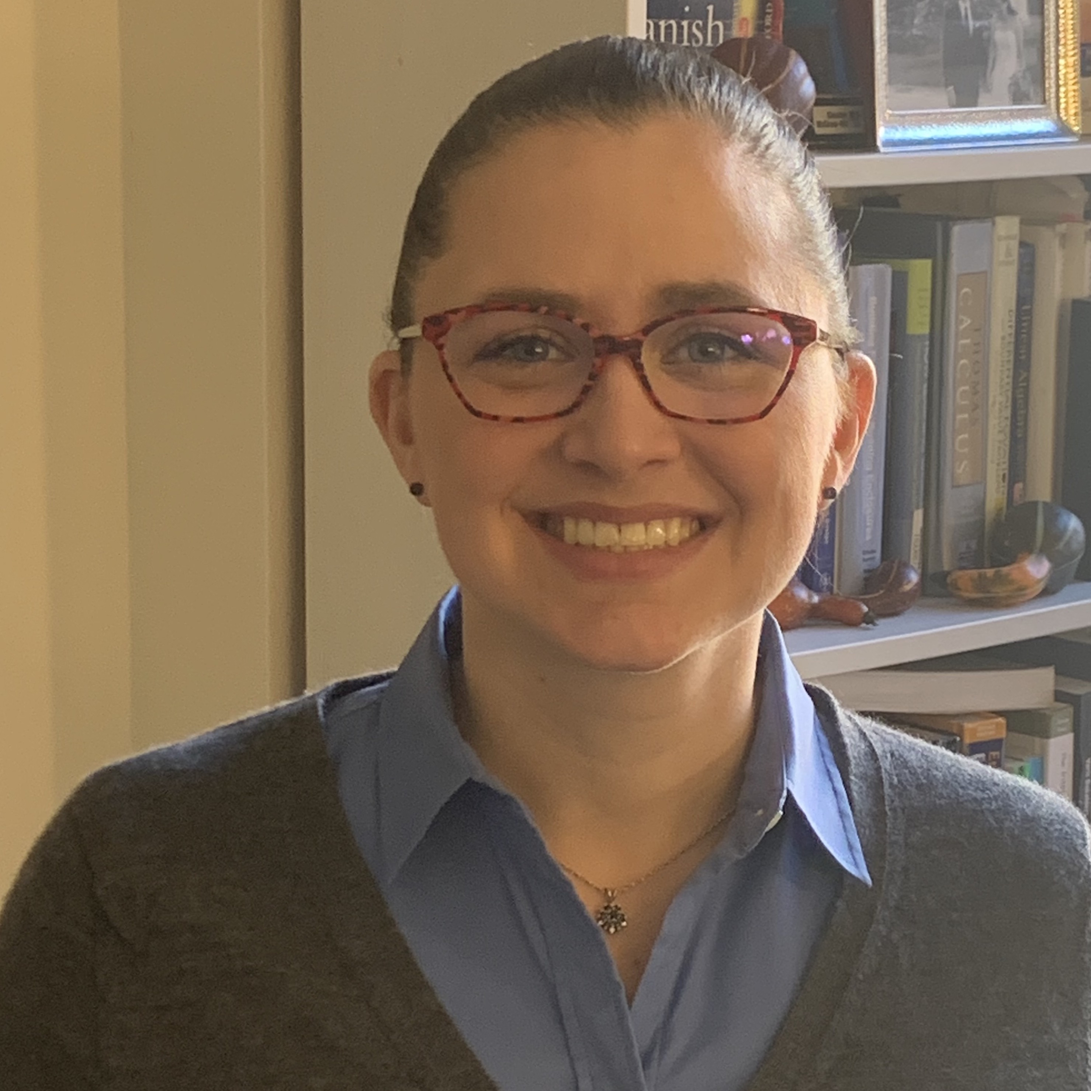
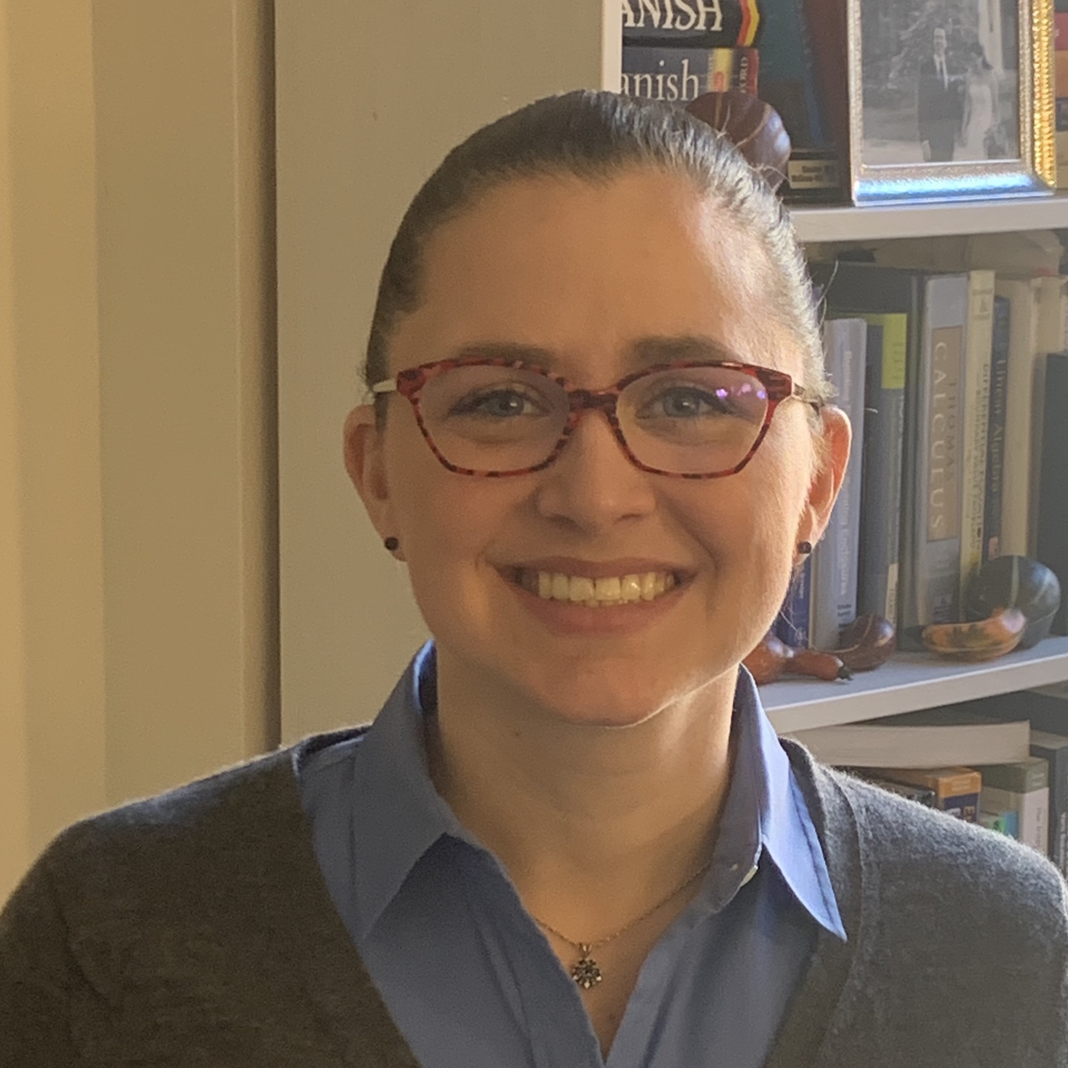
update photos

diff --git a/index.html b/index.html
@@ -103,7 +103,7 @@
         -->
           <div class="col-lg-4" data-aos="fade-right">
             <div class="overall_image">
-              <img src="assets/img/IMG-6211_profile_photo_square.jpg" class="img-fluid" alt="">
+              <img src="assets/img/IMG-6211_profile_photo.jpg" class="img-fluid" alt="">
             </div>
           </div>
 
